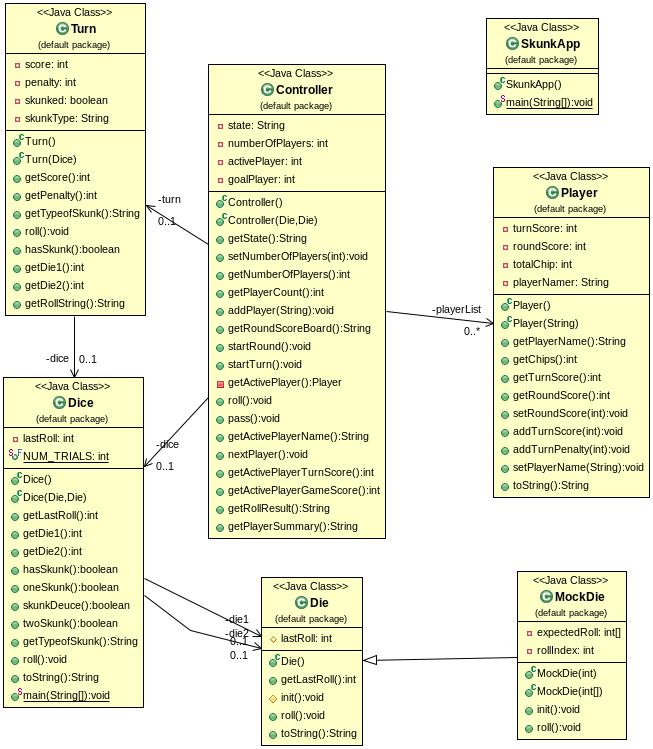
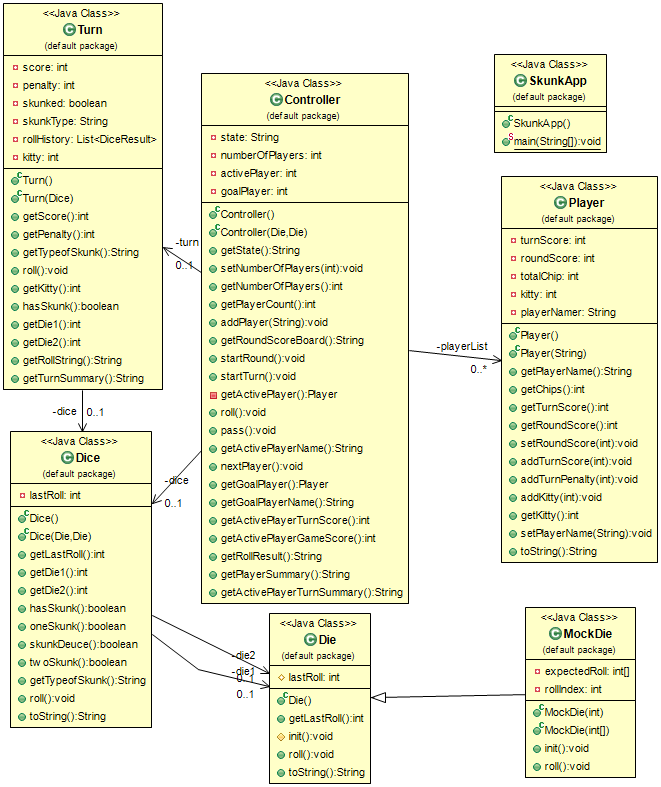
Clean up unused methods.
Round out missed cases.
Add Class Diagram

![.docs/Code Coverage.png](.docs/Code Coverage.png)

diff --git a/SkunkProject/test/TestDice.java b/SkunkProject/test/TestDice.java
@@ -37,36 +37,71 @@ class TestDice {
 			switch (dice.getLastRoll()) {
 			case 2:
 				two_count += 1;
+				assertEquals("Two Skunk!", dice.getTypeofSkunk());
 				break;
 			case 3:
 				three_count += 1;
+				assertEquals("Skunk Deuce!", dice.getTypeofSkunk());
 				break;
 			case 4:
 				four_count += 1;
+				if (dice.hasSkunk()) {
+					assertEquals("Single Skunk!", dice.getTypeofSkunk());
+				}
+				else
+				{
+					assertEquals("", dice.getTypeofSkunk());
+				}
 				break;
 			case 5:
 				five_count += 1;
+				if (dice.hasSkunk()) {
+					assertEquals("Single Skunk!", dice.getTypeofSkunk());
+				}
+				else
+				{
+					assertEquals("", dice.getTypeofSkunk());
+				}
 				break;
 			case 6:
 				six_count += 1;
+				if (dice.hasSkunk()) {
+					assertEquals("Single Skunk!", dice.getTypeofSkunk());
+				}
+				else
+				{
+					assertEquals("", dice.getTypeofSkunk());
+				}
 				break;
 			case 7:
 				seven_count += 1;
+				if (dice.hasSkunk()) {
+					assertEquals("Single Skunk!", dice.getTypeofSkunk());
+				}
+				else
+				{
+					assertEquals("", dice.getTypeofSkunk());
+				}
 				break;
 			case 8:
 				eight_count += 1;
+				assertEquals("", dice.getTypeofSkunk());
 				break;
 			case 9:
 				nine_count += 1;
+				assertEquals("", dice.getTypeofSkunk());
 				break;
 			case 10:
 				ten_count += 1;
+				assertEquals("", dice.getTypeofSkunk());
 				break;
 			case 11:
 				eleven_count += 1;
+				assertEquals("", dice.getTypeofSkunk());
 				break;
 			case 12:
 				twelve_count += 1;
+				assertEquals("", dice.getTypeofSkunk());
 				break;
 			}
 		}

diff --git a/SkunkProject/test/TestTurn.java b/SkunkProject/test/TestTurn.java
@@ -30,6 +30,8 @@ class TestTurn {
 		assertEquals(9, turn.getScore());
 		turn.roll();
 		assertEquals(14, turn.getScore());
+		assertEquals("", turn.getTypeofSkunk());
+		
 		turn.roll();
 		assertEquals(0, turn.getScore());
 		turn.roll();
@@ -105,8 +107,8 @@ class TestTurn {
 		when(mockDie1.getLastRoll()).thenReturn(1);
 		when(mockDie2.getLastRoll()).thenReturn(1);
 
-		String expectedResult = "In this turn you rolled the following rolls:\n" + "{1,1}\n" + "You lost 4 chip(s).\n"
-				+ "You scored 0 point(s).";
+		String expectedResult = "In this turn you rolled the following rolls:\n" + "{1,1}\n" + "You lost 4 chip(s).\n\n"
+				+ "You scored 0 point(s).\n";
 
 		Turn turn = new Turn(new Dice(mockDie1, mockDie2));
 		turn.roll();
@@ -114,5 +116,26 @@ class TestTurn {
 		String result = turn.getTurnSummary();
 
 		assertEquals(expectedResult, result);
+	}
+	
+	@Test
+	void skunkdeuce_has_penalty_of_two() {
+		Die d1 = new MockDie(new int[] {5,5,1});
+		Die d2 = new MockDie(new int[] {5,5,2});
+		Dice dice = new Dice(d1, d2);
+		
+		Turn turn = new Turn (dice);
+		turn.roll();
+		turn.roll();
+		
+		assertEquals("Skunk Deuce!", turn.getTypeofSkunk());
+		assertEquals(2, turn.getPenalty());
+		assertEquals(2, turn.getKitty());
+		
+		String expectedResult = "In this turn you rolled the following rolls:\n" 
+		                      + "{5,5}, {1,2}\n" 
+				              + "You lost 2 chip(s).\n\n"
+		                      + "You scored 0 point(s).\n";
+		assertEquals(expectedResult, turn.getTurnSummary());
 	}
 }

diff --git a/SkunkProject/src/Dice.java b/SkunkProject/src/Dice.java
@@ -119,28 +119,4 @@ public class Dice
 	{
 		return "Value of each thrown die: " + getLastRoll() + " => " + die1.getLastRoll() + " + " + die2.getLastRoll();
 	}
-
-	// static methods can go anywhere - but at end is one convention
-
-	public static final int NUM_TRIALS = 360;
-
-	public static void main(String[] args)
-	{
-		// simulate repeated rolls of Dice, counting the many double skunks
-		
-		Dice dice = new Dice();
-		int doubleSkunkCount = 0;
-
-		for (int i = 0; i < NUM_TRIALS; i++)
-		{
-			dice.roll();
-			StdOut.println(dice);
-
-			if (dice.getLastRoll() == 2)
-				doubleSkunkCount++;
-		}
-
-		StdOut.println("Actual count: " + doubleSkunkCount);
-		StdOut.println("Expected count: " + (NUM_TRIALS / 36.0));
-	}
 }

diff --git a/SkunkProject/test/TestDiceResult.java b/SkunkProject/test/TestDiceResult.java
@@ -6,9 +6,13 @@ public class TestDiceResult {
 	@Test
 	void DiceResult_instantiates_successfully() {
 
+		Die d1 = new MockDie(new int[] {1});
+		Die d2 = new MockDie(new int[] {2});
+		Dice dice = new Dice(d1, d2);
+		
 		String ExpectedResult = "{1,2}";
 
-		DiceResult result = new DiceResult(1,2);
+		DiceResult result = new DiceResult(dice);
 
 		assertEquals(ExpectedResult, result.toString());
 	}

diff --git a/SkunkProject/src/DiceResult.java b/SkunkProject/src/DiceResult.java
@@ -3,11 +3,6 @@ public class DiceResult {
     private int die1;
     private int die2;
 
-    public DiceResult(int d1, int d2) {
-        this.die1 = d1;
-        this.die2 = d2;
-    }
-
     public DiceResult(Dice dice) {
         this.die1 = dice.getDie1();
         this.die2 = dice.getDie2();

diff --git a/SkunkProject/src/Controller.java b/SkunkProject/src/Controller.java
@@ -137,7 +137,6 @@ public class Controller {
 		{
 			this.state = "BeginEndGame";
 			this.goalPlayer = this.activePlayer;
-			//this.getGoalPlayer().updateChip(50-);
 			
 		}
 		else if (this.goalPlayer != -2)

diff --git a/SkunkProject/src/Player.java b/SkunkProject/src/Player.java
@@ -58,10 +58,6 @@ public class Player {
 	{
 		return this.kitty;
 	}
-	public void updateChip(int kitty)
-	{
-		this.totalChip+=kitty;
-	}
 	
 	public void setPlayerName(String playerName)
 	{
